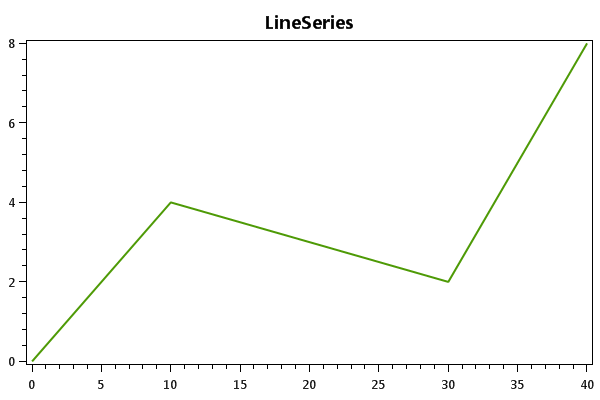
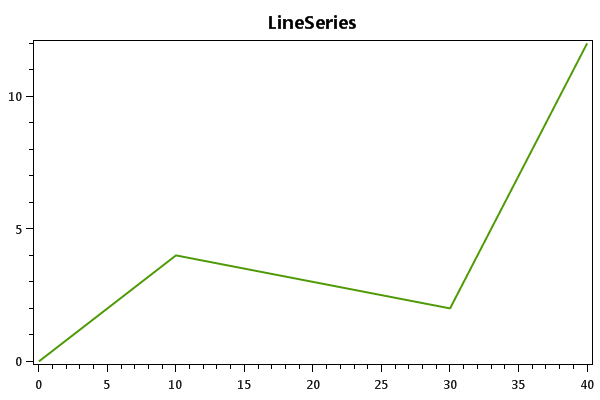
Update LineSeries example images

diff --git a/documentation/series/LineSeries.md b/documentation/series/LineSeries.md
@@ -5,7 +5,7 @@ title: LineSeries
 
 A `LineSeries` is used to render data as a polyline in the plot. It is also possible to render markers at each point of the polyline.
 
-![LineSeries](/public/images/series/LineSeries.png)
+![LineSeries](/public/images/documentation/series/LineSeries.png)
 
 ### Visibility
 
@@ -120,11 +120,11 @@ var lineSeries = new LineSeries();
 lineSeries.Points.Add(new DataPoint(0, 0));
 lineSeries.Points.Add(new DataPoint(10, 4));
 lineSeries.Points.Add(new DataPoint(30, 2));
-lineSeries.Points.Add(new DataPoint(40, 8));
+lineSeries.Points.Add(new DataPoint(40, 12));
 model.Series.Add(lineSeries);
 ```
 
-![LineSeries](/public/images/series/LineSeries-Example1.png)
+![LineSeries](/public/images/documentation/series/LineSeries-Example1.png)
 
 Set the `Smooth` property to render a canonical spline:
 
@@ -132,4 +132,4 @@ Set the `Smooth` property to render a canonical spline:
 lineSeries.Smooth = true;
 ```
 
-![LineSeries](/public/images/series/LineSeries-Example2.png)
+![LineSeries](/public/images/documentation/series/LineSeries-Example2.png)
